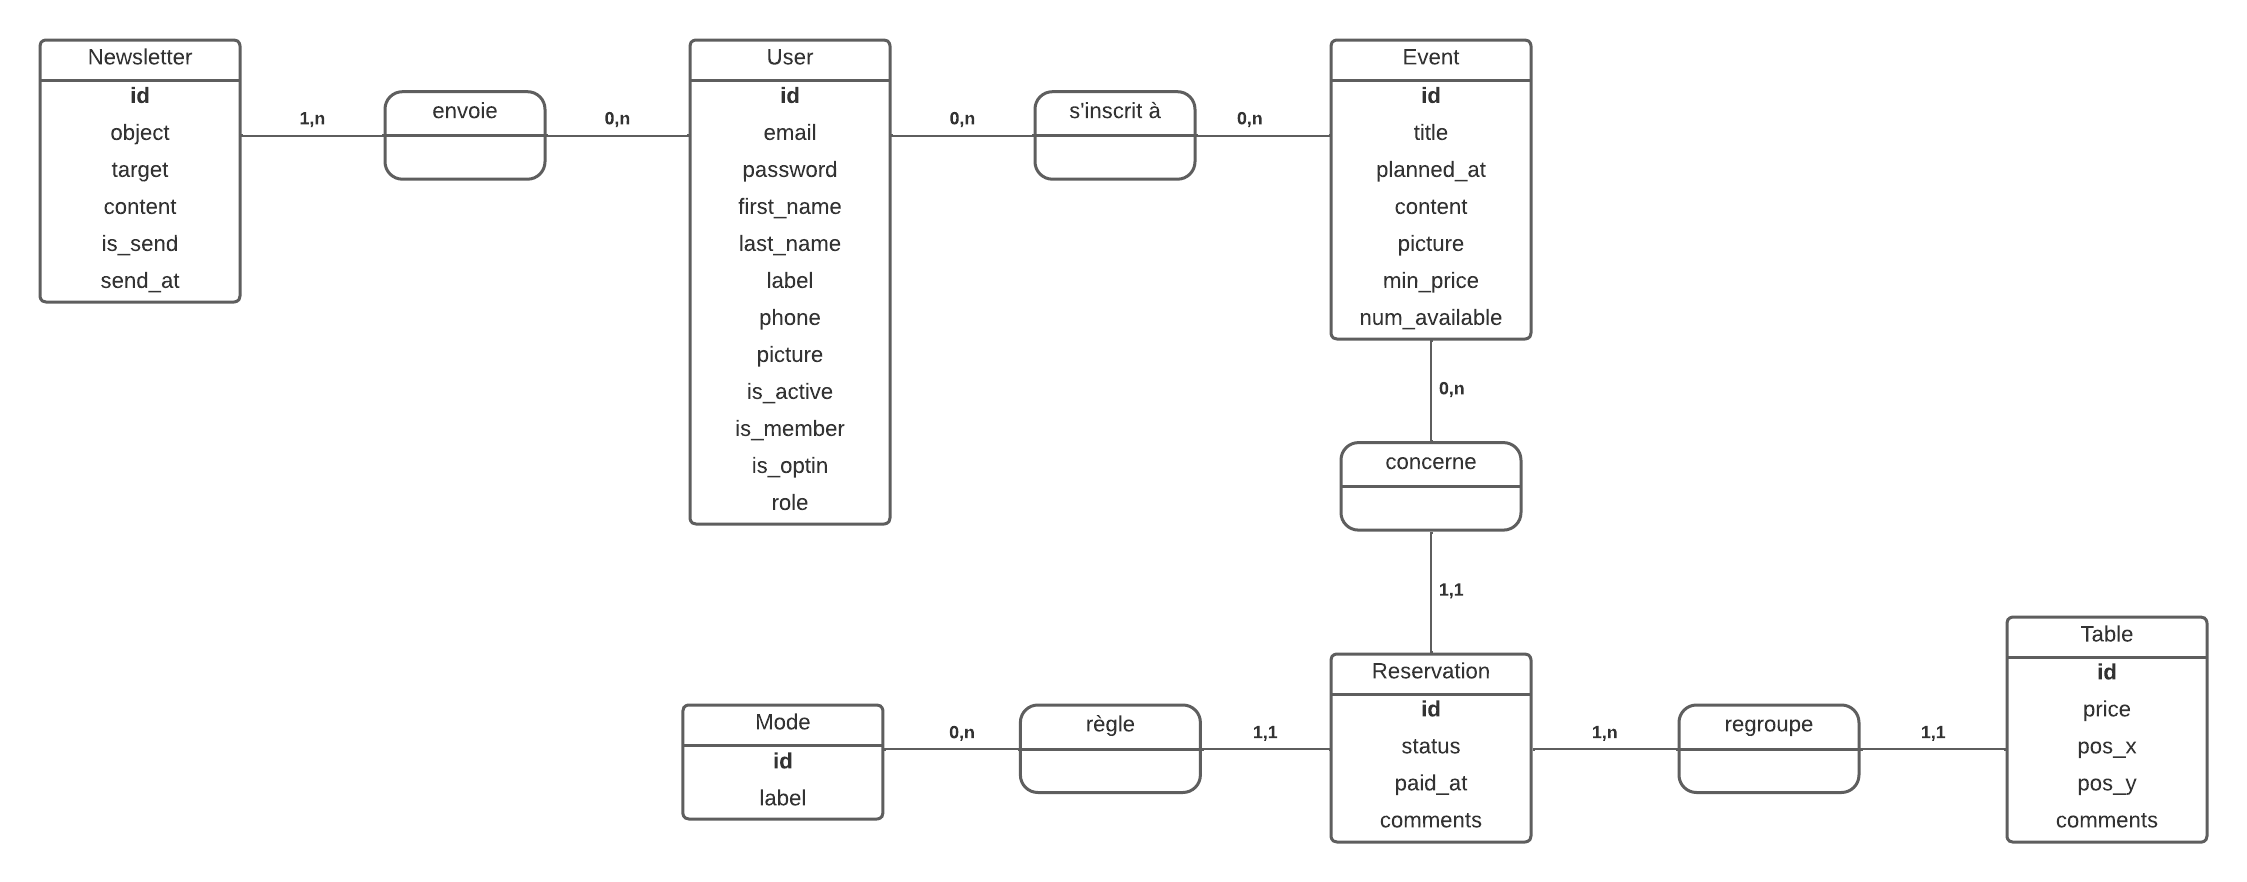
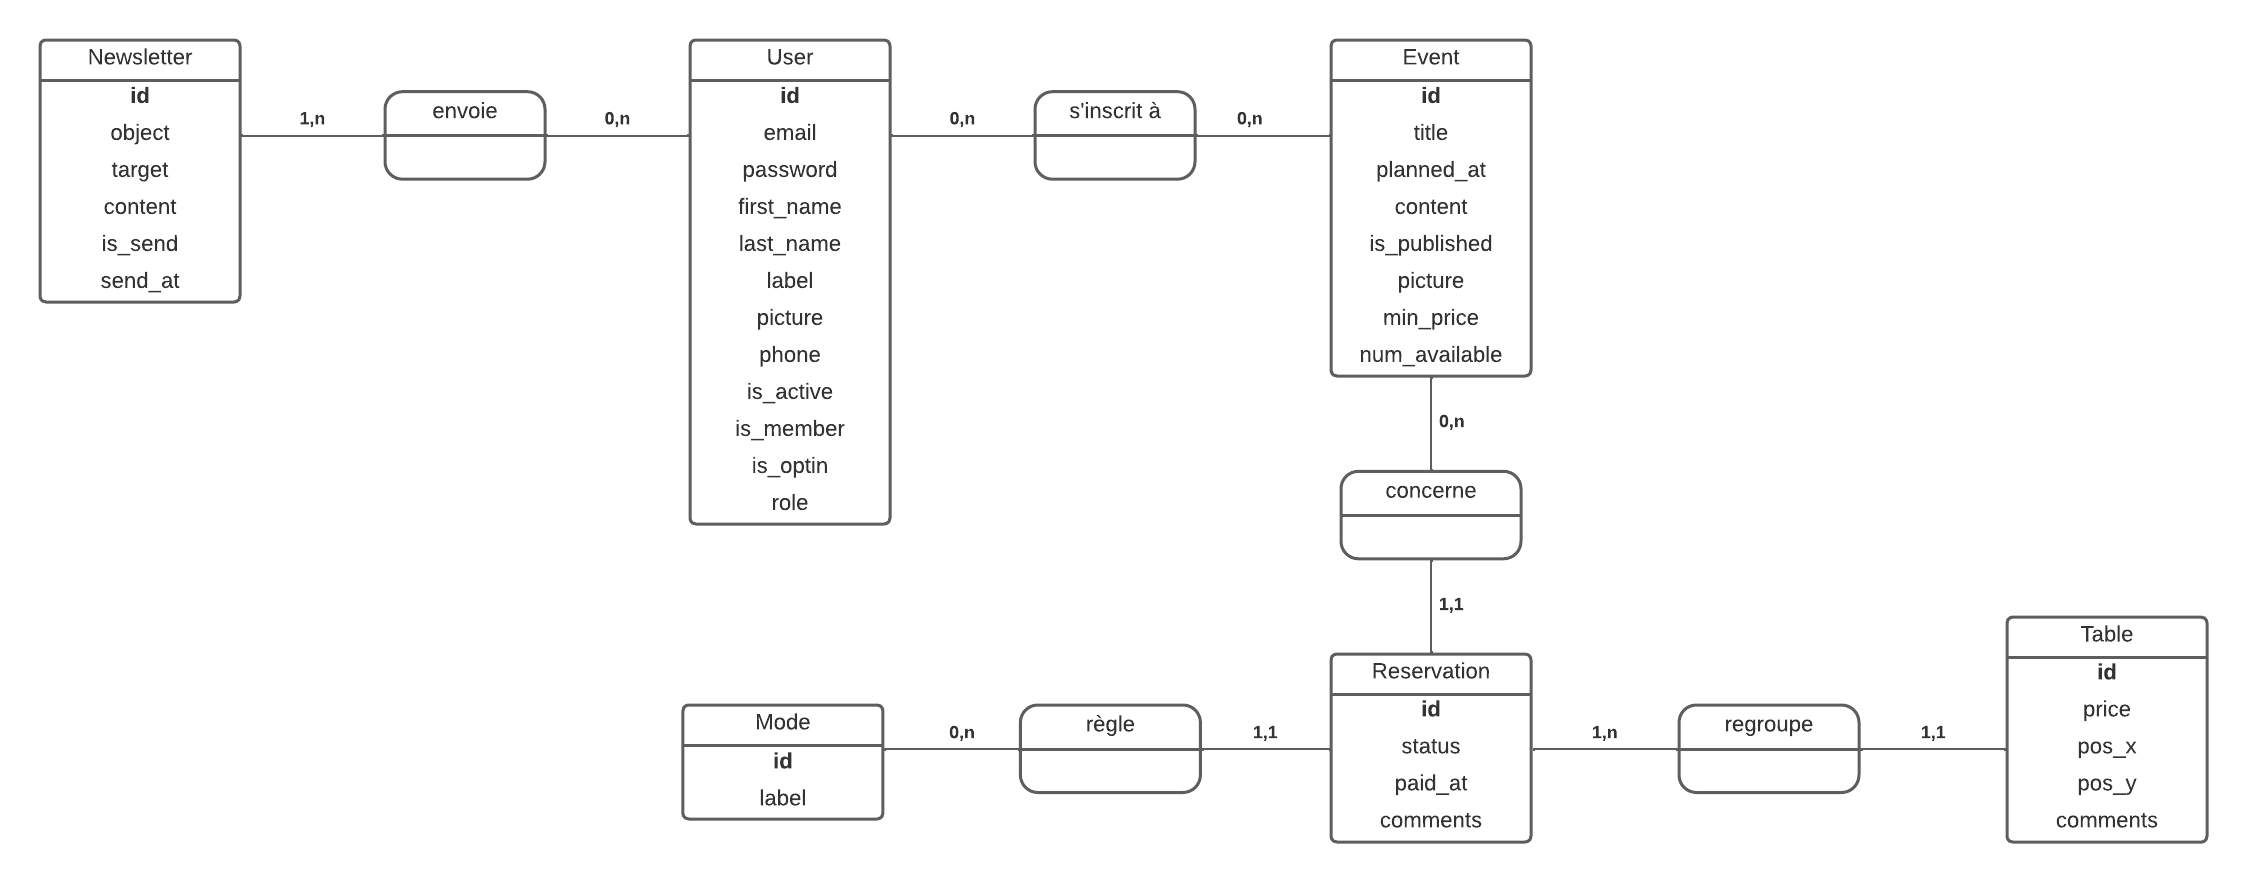
MAJ R Dictionnaire Donnees

diff --git a/docs/base-donnees.md b/docs/base-donnees.md
@@ -20,12 +20,23 @@
 - newsletter_user (**#newsletter_id, #user_id**)
 - user (**id**, email, password, first_name, last_name, label, picture, phone, is_active, is_member, is_optin, role)
 - user_event (**#user_id, #event_id**)
-- event (**id**, planned_at, title, picture, content, min_price, num_available)
-- reservation (**id**, status, paid_at, total, comments, **#event_id**, **#mode_id**)
+- event (**id**, title, planned_at, picture, content, min_price, num_available)
+- reservation (**id**, status, paid_at, comments, **#event_id**, **#mode_id**)
 - mode (**id**, label)
 - table (**id**, price, pos_x, pos_y, comments, **#reservation_id**)
 
 ## Les entités
+
+### Newsletter - Les newsletters
+
+nom|description|type|règle
+-|-|-|-
+**id**|l'identifiant de la newsletter|entier|clé primaire
+**object**|le titre de la newsletter|chaîne (255)|requis
+**target**|la cible de la newsletter ("Général" ou "Membres")|chaîne (10)|"Général" par défaut
+**content**|le contenu de la newsletter|texte|requis
+**is_send**|la newsletter est envoyée|booléen|0 par défaut
+**send_at**|la date d'envoi de la newsletter|date|déterminé lors de l'envoi
 
 ### User - Les utilisateurs
 
@@ -37,41 +48,25 @@ nom|description|type|règle
 **first_name**|le prénom de l'utilisateur|chaîne (50)|requis
 **last_name**|le nom de famille de l'utilisateur|chaîne (50)|requis
 **label**|le libellé de l'utilisateur|chaîne (255)|optionnel
+**picture**|la photo ou l'avatar de l'utilisateur|blob|optionnel
 **phone**|le numéro de téléphone de l'utilisateur|chaîne (20)|optionnel
 **is_active**|le compte de l'utilisateur est activé|booléen|0 par défaut
 **is_member**|l'utilisateur est un membre de l'association|booléen|0 par défaut
 **is_optin**|l'utilisateur est inscrit à la newsletter de l'association|booléen|0 par défaut
 **role**|le rôle de l'utilisateur ("Exposant", "Trésorier", "Administrateur")|chaîne (20)|"Exposant" par défaut
 
-### Newsletter - Les newsletters
-
-nom|description|type|règle
--|-|-|-
-**id**|l'identifiant de la newsletter|entier|clé primaire
-**target**|la cible de la newsletter ("Général" ou "Membres")|chaîne (10)|"Général" par défaut
-**object**|le titre de la newsletter|chaîne (255)|requis
-**content**|le contenu de la newsletter|texte|requis
-**is_send**|la newsletter est envoyée|booléen|0 par défaut
-**send_at**|la date d'envoi de la newsletter|date|déterminé lors de l'envoi
-
-### Mode - Les modes de paiement
-
-nom|description|type|règle
--|-|-|-
-**id**|l'identifiant du mode de paiement|entier|clé primaire
-**label**|libellé du mode de paiement|chaîne (50)|requis
-
 ### Event - Les événements
 
 nom|description|type|règle
 -|-|-|-
 **id**|l'identifiant de l'événement|entier|clé primaire
-**planned_at**|la date prévue de l'événement (JJ/MM/AAAA)|date|requis
 **title**|l'intitulé de l'événement|chaîne (255)|requis
+**planned_at**|la date prévue de l'événement (JJ/MM/AAAA)|date|requis
 **picture**|l'image d'illustration de l'événement|blob|optionnel
 **content**|la description de l'événement|texte|requis
-**min_price**|le prix de base par table|entier (3)|requis
-**num_available**|le nombre de tables disponibles|entier (3)|requis
+**is_published**|l'événement est annoncé sur le site|booléen|0 par défaut
+**min_price**|le prix de base par table|décimal (5,2)|0 par défaut
+**num_available**|le nombre de tables disponibles|entier (3)|0 par défaut
 
 ### Reservation - Les réservations
 
@@ -79,19 +74,25 @@ nom|description|type|règle
 -|-|-|-
 **id**|l'identifiant de la réservation|entier|clé primaire
 **status**|le statut de paiement ("A Payer", "Payé", "Annulé")|chaîne (20)|"A Payer" par défaut
-**paid_at**|la date de paiement (JJ/MM/AAAA)|date|requis si statut "Payé"
-**total**|la somme totale réglée pour les tables (en €)|décimal (3,2)|0 par défaut
+**paid_at**|la date de paiement (JJ/MM/AAAA)|date|date du jour par défaut
 **comments**|les commentaires de la réservation|texte|optionnel
+
+### Mode - Les modes de paiement
+
+nom|description|type|règle
+-|-|-|-
+**id**|l'identifiant du mode de paiement|entier|clé primaire
+**label**|le libellé du mode de paiement|chaîne (50)|requis
 
 ### Table - Les tables
 
 nom|description|type|règle
 -|-|-|-
 **id**|l'identifiant de la table|entier|clé primaire
-**price**|le prix individuel d'une table|entier (3)|prix de base pour un événement par défaut
+**price**|le prix individuel d'une table|décimal (5,2)|prix de base pour un événement par défaut
 **pos_x**|la position en abscisses (X) de la table|entier (3)|0 par défaut
 **pos_y**|la position en ordonnées (Y) de la table|entier (3)|0 par défaut
-**comments**|les commentaires d'une table (ex : "situé près de la porte de sortie")|texte|optionnel
+**comments**|les commentaires d'une table|texte|optionnel
 
 ## Les cardinalités
 
